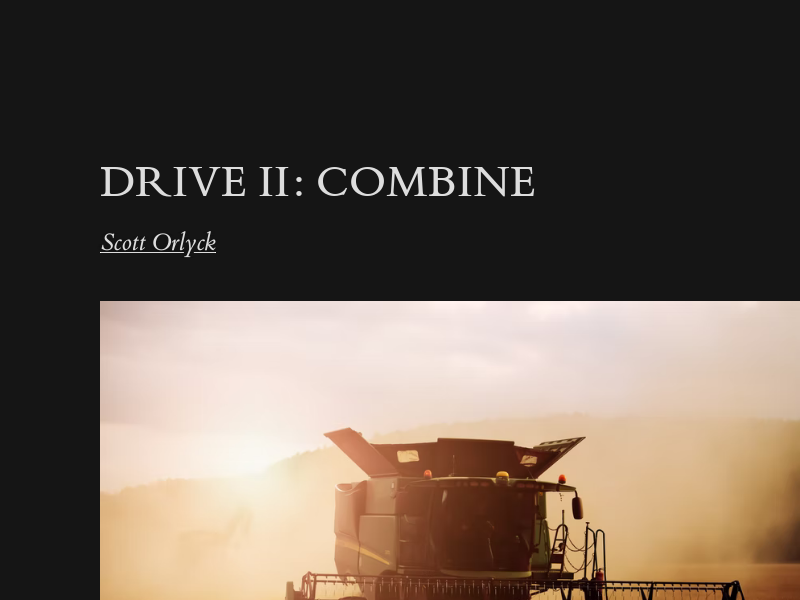
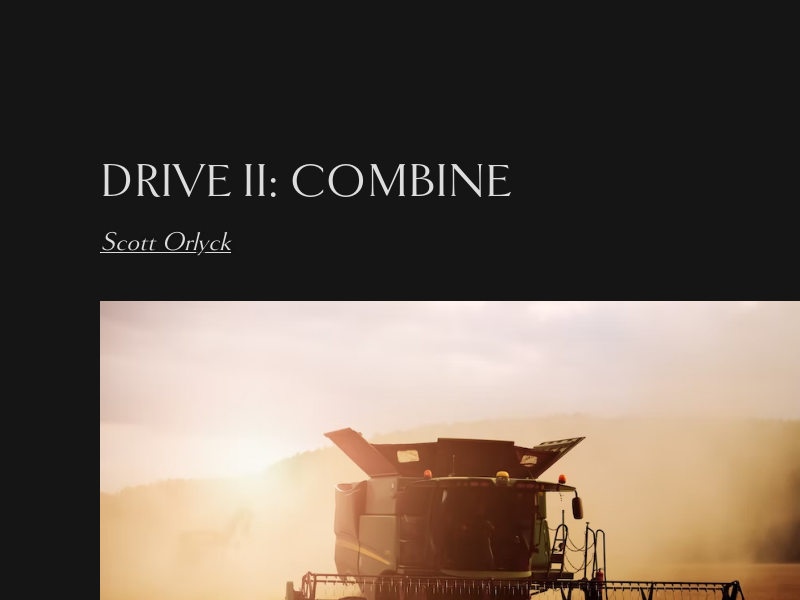
Render and commit.

Changed region(s): [[0.125, 0.27, 0.6875, 0.33], [0.125, 0.39, 0.2812, 0.42]]

diff --git a/docs/assets/index.2adff5b9.css b/docs/assets/index.2adff5b9.css
@@ -1,0 +1,1 @@
+@import"https://use.typekit.net/hax1mrg.css";html{font-size:15px}body{background-color:#fffff8;color:#111;counter-reset:sidenote-counter;font-family:goldenbook;margin-left:auto;margin-right:auto;max-width:1400px;padding-left:12.5%;width:87.5%}@media (color-index:48){body{background-color:#151515;color:#ddd}}@media (color:48842621){body{background-color:#151515;color:#ddd}}@media (prefers-color-scheme:dark){body{background-color:#151515;color:#ddd}}h1{font-size:3.2rem;font-weight:400;line-height:1;margin-bottom:1.5rem;margin-top:4rem}h2{font-size:2.2rem;margin-top:2.1rem}h2,h3{font-style:italic;font-weight:400;line-height:1;margin-bottom:1.4rem}h3{font-size:1.7rem;margin-top:2rem}hr{border:0;border-top:1px solid #ccc;display:block;height:1px;margin:1em 0;padding:0;width:55%}p.subtitle{display:block;font-size:1.8rem;font-style:italic;line-height:1;margin-bottom:1rem;margin-top:1rem}.numeral{font-family:goldenbook}.danger{color:red}article{padding:5rem 0}section{padding-bottom:1rem;padding-top:1rem}dl,ol,p,ul{font-size:1.4rem;line-height:2rem}p{margin-bottom:1.4rem;margin-top:1.4rem;padding-right:0;vertical-align:baseline}div.epigraph{margin:5em 0}div.epigraph>blockquote{margin-bottom:3em;margin-top:3em}div.epigraph>blockquote,div.epigraph>blockquote>p{font-style:italic}div.epigraph>blockquote>footer{font-style:normal}div.epigraph>blockquote>footer>cite{font-style:italic}blockquote{font-size:1.4rem}blockquote p{margin-right:40px;width:55%}blockquote footer{font-size:1.1rem;text-align:right;width:55%}section>footer,section>p,section>table{width:55%}section>dl,section>ol,section>ul{-webkit-padding-start:5%;width:50%}dt:not(:first-child),li:not(:first-child){margin-top:.25rem}figure{-webkit-margin-start:0;-webkit-margin-end:0;border:0;font-size:100%;font:inherit;margin:0 0 3em;max-width:55%;padding:0}figcaption,figure{vertical-align:baseline}figcaption{clear:right;float:right;font-size:1.1rem;line-height:1.6;margin-bottom:0;margin-top:0;max-width:40%;position:relative}figure.fullwidth figcaption{margin-right:24%}a:link,a:visited{color:inherit}.no-tufte-underline:link{background:transparent none repeat 0 0/auto auto padding-box border-box scroll;background:initial;text-shadow:inherit}.hover-tufte-underline:hover,.tufte-underline,a:link{background:linear-gradient(#fffff8,#fffff8),linear-gradient(#fffff8,#fffff8),linear-gradient(currentColor,currentColor);background-position:0 93%,100% 93%,0 93%;background-repeat:no-repeat,no-repeat,repeat-x;background-size:.05em 1px,.05em 1px,1px 1px;text-decoration:none;text-shadow:.03em 0 #fffff8,-.03em 0 #fffff8,0 .03em #fffff8,0 -.03em #fffff8,.06em 0 #fffff8,-.06em 0 #fffff8,.09em 0 #fffff8,-.09em 0 #fffff8,.12em 0 #fffff8,-.12em 0 #fffff8,.15em 0 #fffff8,-.15em 0 #fffff8}@media screen and (-webkit-min-device-pixel-ratio:0){.hover-tufte-underline:hover,.tufte-underline,a:link{background-position-y:87%,87%,87%}}@media (color-index:48){.hover-tufte-underline:hover,.tufte-underline,a:link{text-shadow:.03em 0 #151515,-.03em 0 #151515,0 .03em #151515,0 -.03em #151515,.06em 0 #151515,-.06em 0 #151515,.09em 0 #151515,-.09em 0 #151515,.12em 0 #151515,-.12em 0 #151515,.15em 0 #151515,-.15em 0 #151515}}@media (color:48842621){.hover-tufte-underline:hover,.tufte-underline,a:link{text-shadow:.03em 0 #151515,-.03em 0 #151515,0 .03em #151515,0 -.03em #151515,.06em 0 #151515,-.06em 0 #151515,.09em 0 #151515,-.09em 0 #151515,.12em 0 #151515,-.12em 0 #151515,.15em 0 #151515,-.15em 0 #151515}}@media (prefers-color-scheme:dark){.hover-tufte-underline:hover,.tufte-underline,a:link{text-shadow:.03em 0 #151515,-.03em 0 #151515,0 .03em #151515,0 -.03em #151515,.06em 0 #151515,-.06em 0 #151515,.09em 0 #151515,-.09em 0 #151515,.12em 0 #151515,-.12em 0 #151515,.15em 0 #151515,-.15em 0 #151515}}a:link::-moz-selection{background:#b4d5fe;text-shadow:.03em 0 #b4d5fe,-.03em 0 #b4d5fe,0 .03em #b4d5fe,0 -.03em #b4d5fe,.06em 0 #b4d5fe,-.06em 0 #b4d5fe,.09em 0 #b4d5fe,-.09em 0 #b4d5fe,.12em 0 #b4d5fe,-.12em 0 #b4d5fe,.15em 0 #b4d5fe,-.15em 0 #b4d5fe}a:link::-moz-selection,a:link::selection{background:#b4d5fe;text-shadow:.03em 0 #b4d5fe,-.03em 0 #b4d5fe,0 .03em #b4d5fe,0 -.03em #b4d5fe,.06em 0 #b4d5fe,-.06em 0 #b4d5fe,.09em 0 #b4d5fe,-.09em 0 #b4d5fe,.12em 0 #b4d5fe,-.12em 0 #b4d5fe,.15em 0 #b4d5fe,-.15em 0 #b4d5fe}img{max-width:100%}.marginnote,.sidenote{clear:right;float:right;font-size:1.1rem;line-height:1.3;margin-bottom:0;margin-right:-60%;margin-top:.3rem;position:relative;vertical-align:baseline;width:50%}.sidenote-number{counter-increment:sidenote-counter}.sidenote-number:after,.sidenote:before{font-family:goldenbook;position:relative;vertical-align:baseline}.sidenote-number:after{content:counter(sidenote-counter);font-size:1rem;left:.1rem;top:-.5rem}.sidenote:before{content:counter(sidenote-counter) " ";font-size:1rem;top:-.5rem}blockquote .marginnote,blockquote .sidenote{margin-right:-82%;min-width:59%;text-align:left}div.fullwidth,table.fullwidth{width:100%}div.table-wrapper{font-family:Trebuchet MS,Gill Sans,Gill Sans MT,sans-serif;overflow-x:auto}.sans{font-family:Gill Sans,Gill Sans MT,Calibri,sans-serif;letter-spacing:.03em}code,pre>code{-webkit-text-size-adjust:100%;font-family:anonymous-pro,monospace;font-size:1rem;line-height:1.42}.sans>code{font-size:1.2rem}h1>code,h2>code,h3>code{font-size:.8em}.marginnote>code,.sidenote>code{font-size:1rem}pre>code{display:block;font-size:.9rem;margin-left:2.5%;overflow-x:auto;width:52.5%}pre.fullwidth>code{width:90%}.fullwidth{clear:both;max-width:90%}span.newthought{-webkit-font-feature-settings:"smcp";font-feature-settings:"smcp";font-size:1.2em;font-variant:small-caps}input.margin-toggle{display:none}label.sidenote-number{display:inline-block;max-height:2rem}label.margin-toggle:not(.sidenote-number){display:none}.iframe-wrapper{height:0;padding-bottom:56.25%;padding-top:25px;position:relative}.iframe-wrapper iframe{height:100%;left:0;position:absolute;top:0;width:100%}@media (max-width:760px){body{padding-left:8%;padding-right:8%;width:84%}hr,section>footer,section>p,section>table{width:100%}pre>code{width:97%}section>dl,section>ol,section>ul{width:90%}figure{max-width:90%}figcaption,figure.fullwidth figcaption{margin-right:0;max-width:none}blockquote{margin-left:1.5em;margin-right:0}blockquote footer,blockquote p{width:100%}label.margin-toggle:not(.sidenote-number){display:inline}.marginnote,.sidenote{display:none}.margin-toggle:checked+.marginnote,.margin-toggle:checked+.sidenote{clear:both;display:block;float:left;left:1rem;margin:1rem 2.5%;position:relative;vertical-align:baseline;width:95%}label{cursor:pointer}div.table-wrapper,table{width:85%}img{width:100%}}pre[data-line]{padding:1em 0 1em 3em;position:relative}.line-highlight{background:hsla(24,20%,50%,.08);background:linear-gradient(90deg,hsla(24,20%,50%,.1) 70%,hsla(24,20%,50%,0));left:0;line-height:inherit;margin-top:1em;padding-bottom:inherit;padding-left:0;padding-right:0;padding-top:inherit;pointer-events:none;position:absolute;right:0;white-space:pre}@media print{.line-highlight{color-adjust:exact;-webkit-print-color-adjust:exact}}.line-highlight:before,.line-highlight[data-end]:after{background-color:#997a6666;border-radius:999px;box-shadow:0 1px #fff;color:#f5f2f0;content:attr(data-start);font:700 65%/1.5 sans-serif;left:.6em;min-width:1em;padding:0 .5em;position:absolute;text-align:center;text-shadow:none;top:.4em;vertical-align:.3em}.line-highlight[data-end]:after{bottom:.4em;content:attr(data-end);top:auto}.line-numbers .line-highlight:after,.line-numbers .line-highlight:before{content:none}pre[id].linkable-line-numbers span.line-numbers-rows{pointer-events:all}pre[id].linkable-line-numbers span.line-numbers-rows>span:before{cursor:pointer}pre[id].linkable-line-numbers span.line-numbers-rows>span:hover:before{background-color:#80808033}@media screen{code[class*=language-],pre[class*=language-]{background:#faf8f5;color:#728fcb;direction:ltr;font-family:Consolas,Menlo,Monaco,Andale Mono WT,Andale Mono,Lucida Console,Lucida Sans Typewriter,DejaVu Sans Mono,Bitstream Vera Sans Mono,Liberation Mono,Nimbus Mono L,Courier New,Courier,monospace;font-size:14px;-webkit-hyphens:none;-ms-hyphens:none;hyphens:none;line-height:1.375;-moz-tab-size:4;-o-tab-size:4;tab-size:4;text-align:left;white-space:pre;word-break:normal;word-spacing:normal}code[class*=language-] ::-moz-selection,code[class*=language-]::-moz-selection,pre[class*=language-] ::-moz-selection,pre[class*=language-]::-moz-selection{background:#faf8f5;text-shadow:none}code[class*=language-] ::selection,code[class*=language-]::selection,pre[class*=language-] ::selection,pre[class*=language-]::selection{background:#faf8f5;text-shadow:none}pre[class*=language-]{margin:.5em 0;overflow:auto;padding:1em}:not(pre)>code[class*=language-]{border-radius:.3em;padding:.1em}.token.cdata,.token.comment,.token.doctype,.token.prolog,.token.punctuation{color:#b6ad9a}.token.namespace{opacity:.7}.token.number,.token.operator,.token.tag{color:#063289}.token.function,.token.property{color:#b29762}.token.atrule-id,.token.selector,.token.tag-id{color:#2d2006}.token.attr-name,code.language-javascript{color:#896724}.language-css .token.string,.language-scss .token.string,.style .token.string,.token.atrule,.token.attr-value,.token.boolean,.token.control,.token.directive,.token.entity,.token.keyword,.token.regex,.token.statement,.token.string,.token.unit,.token.url,code.language-css,code.language-scss{color:#728fcb}.token.placeholder,.token.variable{color:#93abdc}.token.deleted{text-decoration:line-through}.token.inserted{border-bottom:1px dotted #2d2006;text-decoration:none}.token.italic{font-style:italic}.token.bold,.token.important{font-weight:700}.token.important{color:#896724}.token.entity{cursor:help}pre>code.highlight{outline:.4em solid #896724;outline-offset:.4em}.line-numbers.line-numbers .line-numbers-rows{border-right-color:#ece8de}.line-numbers .line-numbers-rows>span:before{color:#cdc4b1}.line-highlight.line-highlight{background:rgba(45,32,6,.2);background:linear-gradient(90deg,rgba(45,32,6,.2) 70%,rgba(45,32,6,0))}}@media screen and (color-index:48){code[class*=language-],pre[class*=language-]{background:#030314;color:#d6e7ff;direction:ltr;font-family:Consolas,Menlo,Monaco,Andale Mono WT,Andale Mono,Lucida Console,Lucida Sans Typewriter,DejaVu Sans Mono,Bitstream Vera Sans Mono,Liberation Mono,Nimbus Mono L,Courier New,Courier,monospace;font-size:14px;-webkit-hyphens:none;-ms-hyphens:none;hyphens:none;line-height:1.375;-moz-tab-size:4;-o-tab-size:4;tab-size:4;text-align:left;white-space:pre;word-break:normal;word-spacing:normal}code[class*=language-] ::-moz-selection,code[class*=language-]::-moz-selection,pre[class*=language-] ::-moz-selection,pre[class*=language-]::-moz-selection{background:#1d3b54;color:inherit;text-shadow:none}code[class*=language-] ::-moz-selection,code[class*=language-] ::selection,code[class*=language-]::-moz-selection,code[class*=language-]::selection,pre[class*=language-] ::-moz-selection,pre[class*=language-] ::selection,pre[class*=language-]::-moz-selection,pre[class*=language-]::selection{background:#1d3b54;color:inherit;text-shadow:none}pre[class*=language-]{border:1px solid #2a4555;border-radius:5px;margin:1em 0;overflow:auto}:not(pre)>code[class*=language-]{background:#2a4555;border-radius:.2em;-webkit-box-decoration-break:clone;box-decoration-break:clone;color:#f0f6f6;padding:.2em .3em}.token.cdata,.token.comment,.token.doctype,.token.prolog{color:#446e69}.token.punctuation{color:#d6b007}.token.boolean,.token.constant,.token.deleted,.token.number,.token.property,.token.symbol,.token.tag{color:#d6e7ff}.token.attr-name,.token.builtin,.token.inserted,.token.selector{color:#e60067}.token.char,.token.string{color:#49c6ec}.language-css .token.string,.style .token.string,.token.entity,.token.operator,.token.url{background:transparent;color:#ec8e01}.token.atrule,.token.attr-value,.token.keyword{color:#0fe468}.token.class-name,.token.function{color:#78f3e9}.token.important,.token.regex,.token.variable{color:#d6e7ff}}@media screen and (color:48842621){code[class*=language-],pre[class*=language-]{background:#030314;color:#d6e7ff;direction:ltr;font-family:Consolas,Menlo,Monaco,Andale Mono WT,Andale Mono,Lucida Console,Lucida Sans Typewriter,DejaVu Sans Mono,Bitstream Vera Sans Mono,Liberation Mono,Nimbus Mono L,Courier New,Courier,monospace;font-size:14px;-webkit-hyphens:none;-ms-hyphens:none;hyphens:none;line-height:1.375;-moz-tab-size:4;-o-tab-size:4;tab-size:4;text-align:left;white-space:pre;word-break:normal;word-spacing:normal}code[class*=language-] ::-moz-selection,code[class*=language-]::-moz-selection,pre[class*=language-] ::-moz-selection,pre[class*=language-]::-moz-selection{background:#1d3b54;color:inherit;text-shadow:none}code[class*=language-] ::-moz-selection,code[class*=language-] ::selection,code[class*=language-]::-moz-selection,code[class*=language-]::selection,pre[class*=language-] ::-moz-selection,pre[class*=language-] ::selection,pre[class*=language-]::-moz-selection,pre[class*=language-]::selection{background:#1d3b54;color:inherit;text-shadow:none}pre[class*=language-]{border:1px solid #2a4555;border-radius:5px;margin:1em 0;overflow:auto}:not(pre)>code[class*=language-]{background:#2a4555;border-radius:.2em;-webkit-box-decoration-break:clone;box-decoration-break:clone;color:#f0f6f6;padding:.2em .3em}.token.cdata,.token.comment,.token.doctype,.token.prolog{color:#446e69}.token.punctuation{color:#d6b007}.token.boolean,.token.constant,.token.deleted,.token.number,.token.property,.token.symbol,.token.tag{color:#d6e7ff}.token.attr-name,.token.builtin,.token.inserted,.token.selector{color:#e60067}.token.char,.token.string{color:#49c6ec}.language-css .token.string,.style .token.string,.token.entity,.token.operator,.token.url{background:transparent;color:#ec8e01}.token.atrule,.token.attr-value,.token.keyword{color:#0fe468}.token.class-name,.token.function{color:#78f3e9}.token.important,.token.regex,.token.variable{color:#d6e7ff}}@media screen and (prefers-color-scheme:dark){code[class*=language-],pre[class*=language-]{background:#030314;color:#d6e7ff;direction:ltr;font-family:Consolas,Menlo,Monaco,Andale Mono WT,Andale Mono,Lucida Console,Lucida Sans Typewriter,DejaVu Sans Mono,Bitstream Vera Sans Mono,Liberation Mono,Nimbus Mono L,Courier New,Courier,monospace;font-size:14px;-webkit-hyphens:none;-ms-hyphens:none;hyphens:none;line-height:1.375;-moz-tab-size:4;-o-tab-size:4;tab-size:4;text-align:left;white-space:pre;word-break:normal;word-spacing:normal}code[class*=language-] ::-moz-selection,code[class*=language-]::-moz-selection,pre[class*=language-] ::-moz-selection,pre[class*=language-]::-moz-selection{background:#1d3b54;color:inherit;text-shadow:none}code[class*=language-] ::-moz-selection,code[class*=language-] ::selection,code[class*=language-]::-moz-selection,code[class*=language-]::selection,pre[class*=language-] ::-moz-selection,pre[class*=language-] ::selection,pre[class*=language-]::-moz-selection,pre[class*=language-]::selection{background:#1d3b54;color:inherit;text-shadow:none}pre[class*=language-]{border:1px solid #2a4555;border-radius:5px;margin:1em 0;overflow:auto}:not(pre)>code[class*=language-]{background:#2a4555;border-radius:.2em;-webkit-box-decoration-break:clone;box-decoration-break:clone;color:#f0f6f6;padding:.2em .3em}.token.cdata,.token.comment,.token.doctype,.token.prolog{color:#446e69}.token.punctuation{color:#d6b007}.token.boolean,.token.constant,.token.deleted,.token.number,.token.property,.token.symbol,.token.tag{color:#d6e7ff}.token.attr-name,.token.builtin,.token.inserted,.token.selector{color:#e60067}.token.char,.token.string{color:#49c6ec}.language-css .token.string,.style .token.string,.token.entity,.token.operator,.token.url{background:transparent;color:#ec8e01}.token.atrule,.token.attr-value,.token.keyword{color:#0fe468}.token.class-name,.token.function{color:#78f3e9}.token.important,.token.regex,.token.variable{color:#d6e7ff}}.small{font-size:.875rem;line-height:1.25rem}.code{width:100%}pre[class*=language-]{overflow:hidden}.line-highlight:before,.line-highlight[data-end]:after{box-shadow:none}@media (max-width:760px){.small{width:100%}}@media (color-index:70){.line-highlight.line-highlight{background:rgba(45,32,6,.2);background:linear-gradient(90deg,rgba(45,32,6,.05) 70%,rgba(45,32,6,0))}}@media (color:70318723){.line-highlight.line-highlight{background:rgba(45,32,6,.2);background:linear-gradient(90deg,rgba(45,32,6,.05) 70%,rgba(45,32,6,0))}}@media (prefers-color-scheme:light){.line-highlight.line-highlight{background:rgba(45,32,6,.2);background:linear-gradient(90deg,rgba(45,32,6,.05) 70%,rgba(45,32,6,0))}}

diff --git a/docs/index.html b/docs/index.html
@@ -16,8 +16,7 @@
         <meta property="og:image" content="https://github.com/scottorly/drive2combine/raw/main/thumbnail.png">
         <meta property="og:image:secure" content="https://github.com/scottorly/drive2combine/raw/main/thumbnail.png">
       
-      
-      <link rel="stylesheet" href="/drive2combine/assets/index.7909d49c.css">
+      <link rel="stylesheet" href="/drive2combine/assets/index.2adff5b9.css">
     </head>
     
 <body>
